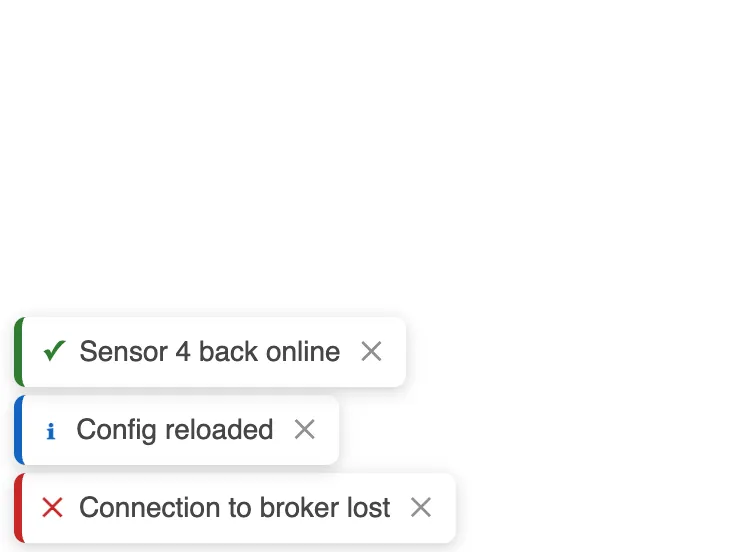
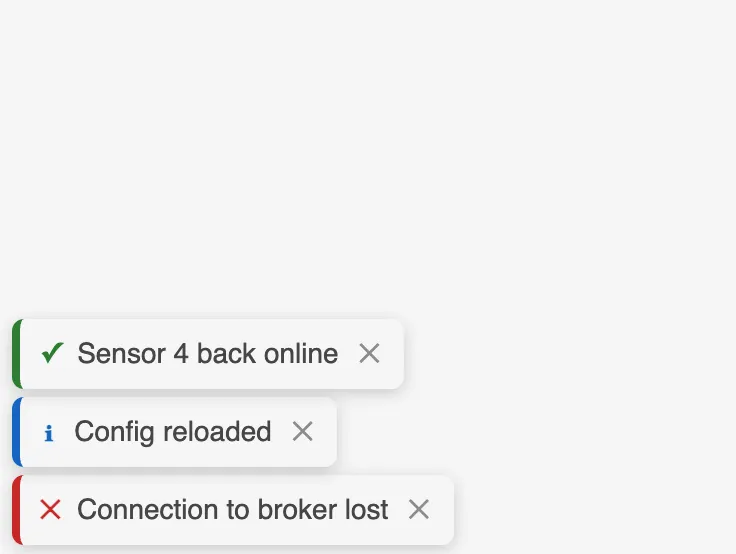
Update demo styles for consistency and replace thumbnail images

diff --git a/demo/index.html b/demo/index.html
@@ -10,7 +10,7 @@
                 padding: 0;
                 width: 100%;
                 height: 100%;
-                background-color: #f5f5f5;
+                background-color: #f6f6f6;
                 font-family:
                     Helvetica, Arial, sans-serif, 'Apple Color Emoji', 'Segoe UI Emoji', 'Segoe UI Symbol';
                 color: #291f42;
@@ -25,7 +25,7 @@
                 width: 420px;
                 height: 280px;
                 margin: 40px auto;
-                background: #ffffff;
+                background: #f6f6f6;
                 border: 1px solid #ddd;
                 box-sizing: border-box;
             }